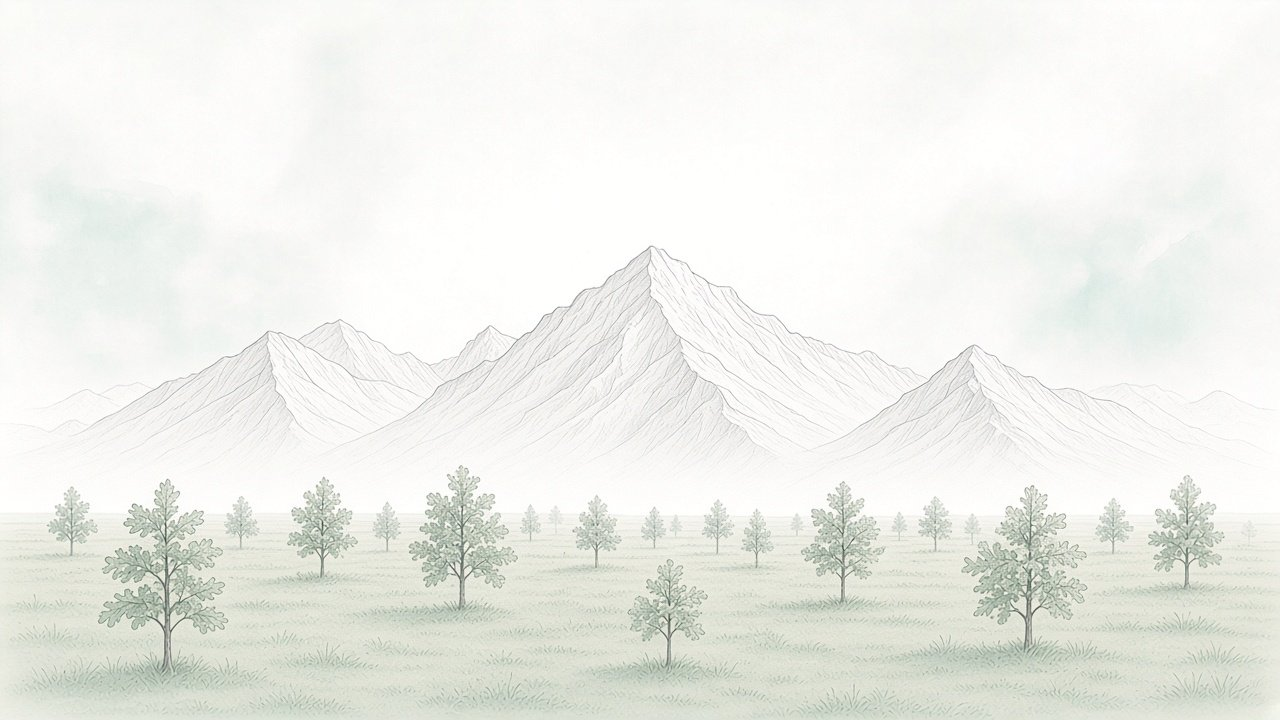
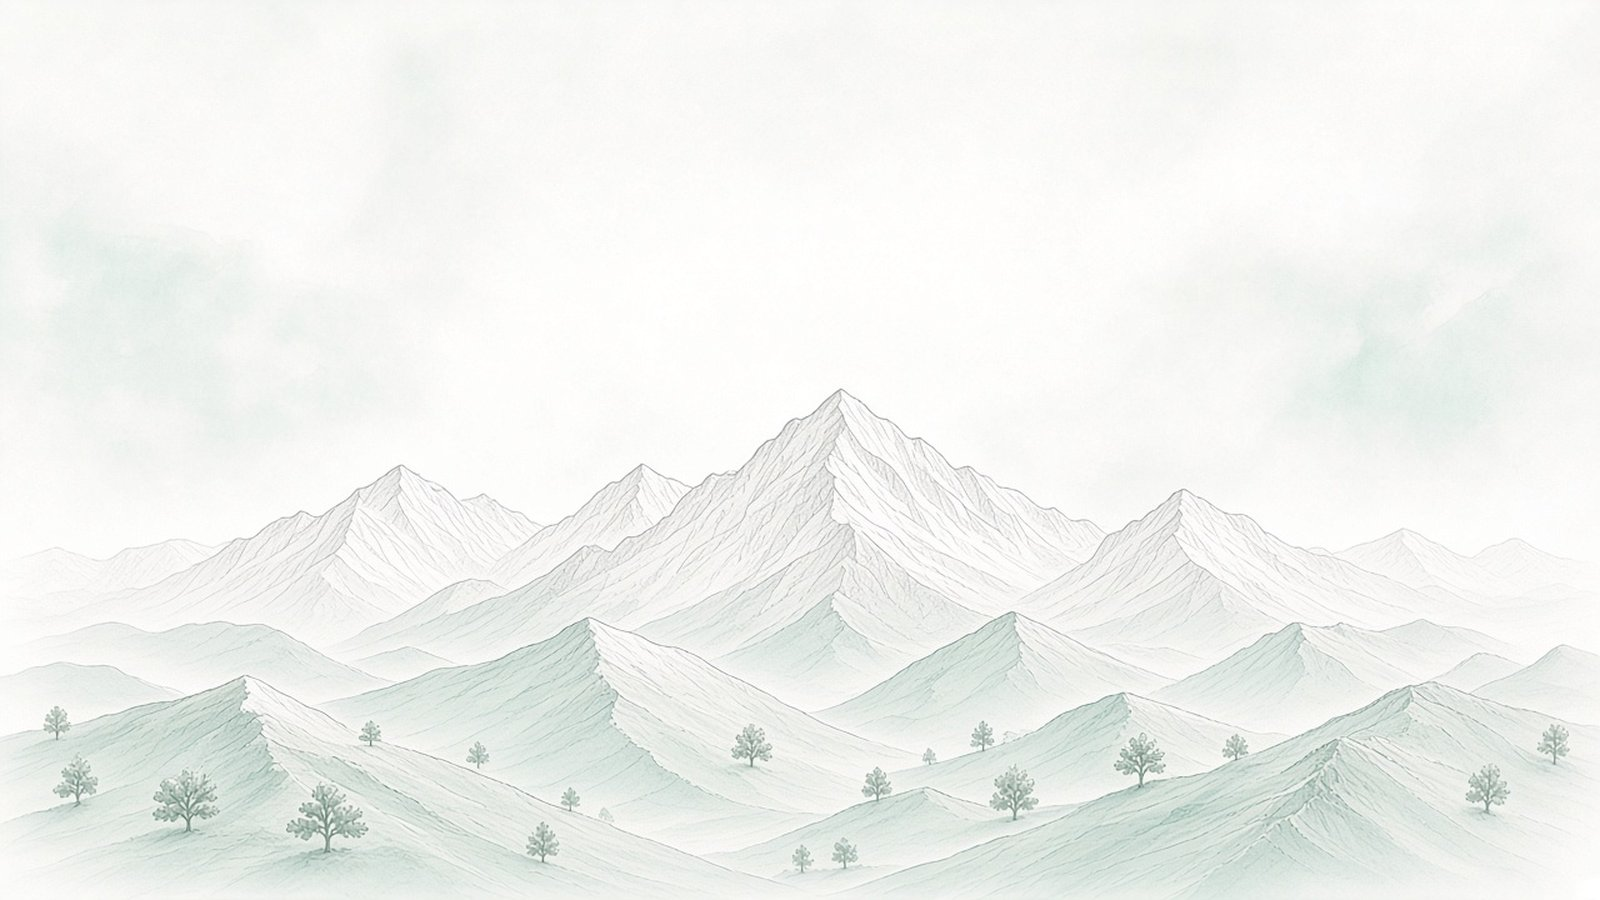
fix(abadis): Zagros foothills hero with baked-in oaks
Replace flat-plain painting and sticker seedling overlays with a
continuous foothills illustration where tiny oaks match the ink+wash
mountains. Soft mist only; no PNG tree stickers.

Changed region(s): [[0.0, 0.3361, 1.0, 1.0], [0.125, 0.4583, 0.3125, 0.5806], [0.625, 0.4583, 0.6562, 0.4889]]

diff --git a/abadis/index.html b/abadis/index.html
@@ -100,54 +100,23 @@
       pointer-events: none;
       background:
         #f7fbfb
-        url("img/zagros/zagros-koh.jpg") center 62% / 118% auto no-repeat;
+        url("img/zagros/zagros-koh.jpg") center 58% / cover no-repeat;
       background-color: #f7fbfb;
     }
-    .hero-art .seedlings {
+    /* soft mist only — oaks are baked into the painting; no sticker overlays */
+    .hero-art::after {
+      content: "";
       position: absolute;
-      left: 0; right: 0;
-      /* plain horizon ~40% up from bottom of painting */
-      bottom: clamp(16%, 30vh, 38%);
-      height: 0;
+      left: 0; right: 0; bottom: 0;
+      height: 46%;
+      background:
+        linear-gradient(180deg, transparent 0%, rgba(247,251,251,0.08) 40%, transparent 100%);
+      animation: zagros-mist 14s ease-in-out infinite alternate;
+      pointer-events: none;
     }
-    .hero-art .seedling {
-      position: absolute;
-      left: var(--x, 10%);
-      bottom: var(--y, 0px);
-      width: var(--w, 72px);
-      transform-origin: 50% 100%;
-      /* gentle wind after rooted — natural, not slider-like */
-      animation: zagros-sway var(--sway, 7.5s) ease-in-out var(--sway-delay, 2.5s) infinite;
-      will-change: transform;
-    }
-    .hero-art .seedling-grow {
-      display: block;
-      width: 100%;
-      transform-origin: 50% 100%;
-      transform: scaleY(0) scaleX(0.72);
-      opacity: 0;
-      animation: zagros-grow 2.6s cubic-bezier(.2,.8,.25,1) var(--grow-delay, 0s) forwards;
-      will-change: transform, opacity;
-    }
-    .hero-art .seedling img {
-      display: block;
-      width: 100%;
-      height: auto;
-      user-select: none;
-      -webkit-user-drag: none;
-      filter: saturate(0.92) contrast(0.96);
-    }
-    .hero-art .seedling.late .seedling-grow {
-      animation-duration: 3.1s;
-    }
-    @keyframes zagros-grow {
-      0%   { transform: scaleY(0) scaleX(0.7); opacity: 0; }
-      62%  { transform: scaleY(1.04) scaleX(1.01); opacity: 1; }
-      100% { transform: scaleY(1) scaleX(1); opacity: 1; }
-    }
-    @keyframes zagros-sway {
-      0%, 100% { transform: rotate(-1.1deg) translateX(-1px); }
-      50%      { transform: rotate(1.25deg) translateX(1.5px); }
+    @keyframes zagros-mist {
+      0%   { opacity: 0.15; }
+      100% { opacity: 0.45; }
     }
     .hero-overlay {
       position: absolute; inset: 0; z-index: 1;
@@ -443,19 +412,13 @@
 
     @media (max-width: 720px) {
       .hero-art {
-        background-size: 145% auto;
-        background-position: center 55%;
+        background-size: cover;
+        background-position: center 52%;
       }
-      .hero-art .seedlings { bottom: clamp(14%, 26vh, 34%); }
     }
 
     @media (prefers-reduced-motion: reduce) {
-      .hero-art .seedling,
-      .hero-art .seedling-grow {
-        animation: none !important;
-        transform: none !important;
-        opacity: 1 !important;
-      }
+      .hero-art::after { animation: none !important; opacity: 0.25 !important; }
     }
   </style>
 </head>
@@ -476,19 +439,7 @@
   </header>
 
   <section class="hero" aria-label="پویش نجات زاگرس">
-    <div class="hero-art" aria-hidden="true">
-      <div class="seedlings">
-        <!-- a few animated overlays over painted grove — staggered grow + light wind -->
-        <div class="seedling" style="--x:14%; --w:70px; --y:4px; --grow-delay:0.6s; --sway:8.4s; --sway-delay:3.1s">
-          <span class="seedling-grow"><img src="img/zagros/seedling-1.png" alt="" width="104" height="148" decoding="async"></span>
-        </div>
-        <div class="seedling" style="--x:48%; --w:92px; --y:-2px; --grow-delay:2.2s; --sway:7.2s; --sway-delay:4.6s">
-          <span class="seedling-grow"><img src="img/zagros/seedling-3.png" alt="" width="106" height="248" decoding="async"></span>
-        </div>
-        <div class="seedling late" style="--x:78%; --w:76px; --y:8px; --grow-delay:5.8s; --sway:9.1s; --sway-delay:8.5s">
-          <span class="seedling-grow"><img src="img/zagros/seedling-7.png" alt="" width="72" height="205" decoding="async"></span>
-        </div>
-      </div>
+    <div class="hero-art" aria-hidden="true"></div>
     </div>
     <div class="hero-overlay"></div>
     <div class="hero-content">
